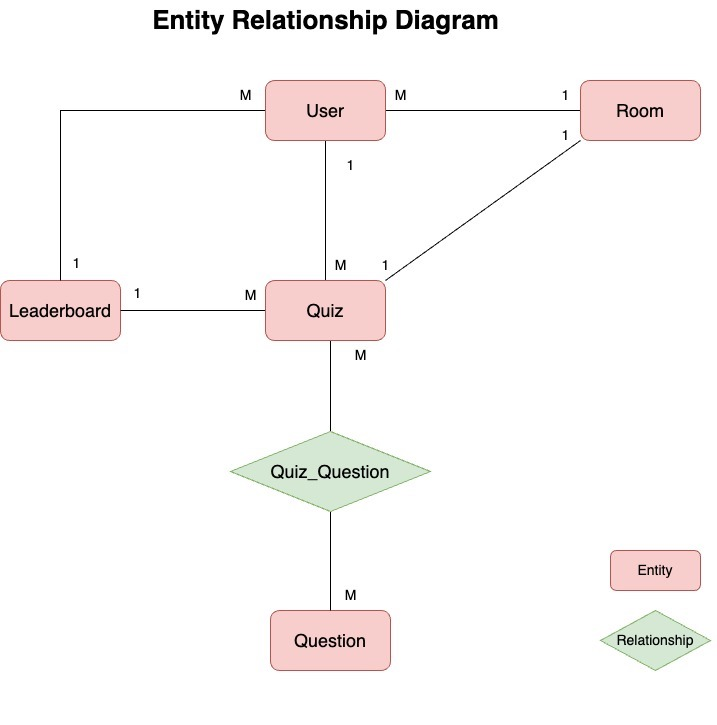
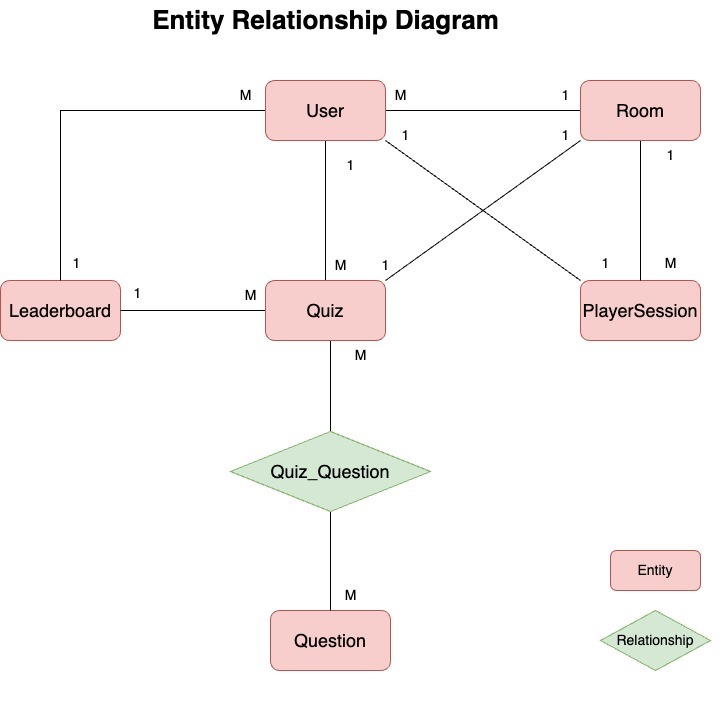
implement firebase firestore to quiz scene

diff --git a/src/components/PlayQuiz.js b/src/components/PlayQuiz.js
@@ -2,9 +2,10 @@ import React, {useEffect, useState} from 'react'
 import { useLocation, useNavigate } from 'react-router-dom';
 import Button from '@mui/material/Button';
 import QuizCard from './common/QuizCard';
-import { database } from '../firebase-config';
-import { addDoc, collection } from 'firebase/firestore';
 import moment from 'moment';
+import editData from "../firestore/editData";
+import {toast} from "react-toastify";
+import addData from "../firestore/addData";
 export default function PlayQuiz() {
     const { state } = useLocation();
     const navigate = useNavigate();
@@ -12,33 +13,97 @@ export default function PlayQuiz() {
     const [questionsArray, setQuesArray] = useState([]);
     const [score, setScore] = useState(0);
     const [playerName, setPlayerName] = useState('');
-    const databaseRef = collection(database, 'Leaderboard')
+    const [leaderboardId, setLeaderboardId] = useState('');
+    // const databaseRef = collection(database, 'Leaderboard')
 
     useEffect(() => {
-        const {quizData} = state;
+        const {quizData, username} = state;
         setQuesArray(quizData)
-        setPlayerName(localStorage.getItem('username'))
+        username ?? setPlayerName(username);
+        console.log(username);
     }, [])
 
     const nextQuestion = () => {
         if (questionCounter < questionsArray.length + 1) {
-            setQuesCounter(questionCounter + 1)
+            setQuesCounter(questionCounter + 1);
+            updateSessionData();
+        }
+    }
+    useEffect(() => { // only update leaderboard when score change
+        updateLeaderboardScore();
+        // debugger;
+    },[score])
+
+    const updateSessionData = async () => {
+        const playSessionDocID = localStorage.getItem('playSessionDocID');
+        const requestData = {
+            currentQuestion: questionCounter + 1,
+            currentScore: score
+        }
+        const {result, error} = await editData(
+            'PlaySession', playSessionDocID, requestData);
+        if (error) {
+            console.log(error);
+            toast.error(JSON.stringify(error));
+            return;
+        }
+        return result;
+    }
+
+    const updateLeaderboardScore = async () => {
+        const playSessionDocID = localStorage.getItem('playSessionDocID');
+        const sessionId = localStorage.getItem('sessionId');
+        if (questionCounter === 1) { // Just answer first question
+            const requestData = {
+                username: state.username,
+                timestamp: moment().format('LLL'),
+                score: score,
+                playSessionDocID: playSessionDocID,
+                sessionId: sessionId
+            };
+            const {result, error} = await addData('Leaderboard', requestData);
+            if (result) {
+                console.log(result);
+                setLeaderboardId(result.id);
+                return result;
+            }
+            if (error) {
+                console.log(error);
+                toast.error(JSON.stringify(error));
+            }
+        } else {// second question to last question
+            const requestData = {
+                score: score
+            }
+            const {result, error} = await editData(
+                'Leaderboard', leaderboardId, requestData);
+            if (error) {
+                console.log(error);
+                toast.error(JSON.stringify(error));
+                return;
+            }
+            return result;
         }
     }
 
     const submitQuiz = () => {
-        addDoc(databaseRef, {
-            username: playerName,
-            timestamp: moment().format('LLL'),
-            score: score
+        navigate('/leaderboard', {
+            state: {
+                finalResults: score,
+            }
         })
-            .then(() => {
-                navigate('/leaderboard', {
-                    state: {
-                        finalResults: score,
-                    }
-                })
-            })
+        // addDoc(databaseRef, {
+        //     username: playerName,
+        //     timestamp: moment().format('LLL'),
+        //     score: score
+        // })
+        //     .then(() => {
+        //         navigate('/leaderboard', {
+        //             state: {
+        //                 finalResults: score,
+        //             }
+        //         })
+        //     })
     }
     return (
         <div>
@@ -59,12 +124,12 @@ export default function PlayQuiz() {
             ) : (
                 <div className='submit-container'>
                     <h2>The Quiz is now finished..</h2>
-                    <p>You can Submit your Score..</p>
+                    <p>You can see your rank on leaderboard..</p>
                     <Button
                         onClick={submitQuiz}
                         variant="contained"
                         style={{ marginLeft: 10 }}>
-                        Submit
+                        Show leaderboard
                     </Button>
                 </div>
             )}

diff --git a/src/firestore/getData.js b/src/firestore/getData.js
@@ -1,0 +1,125 @@
+import {database} from "../firebase-config";
+import {collection, doc, getDoc, getDocs, query, orderBy, where, deleteDoc} from "firebase/firestore";
+
+export async function getDocument(collection, id) {
+    let docRef = doc(database, collection, id);
+
+    let result = null;
+    let error = null;
+
+    try {
+        result = await getDoc(docRef);
+    } catch (e) {
+        error = e;
+    }
+
+    return { result, error };
+}
+
+export async function getAllUser() {
+    let error = null;
+    let result = null;
+    let messageList = []
+    try {
+        const snapshot = await getDocs(collection(database, 'messages'));
+        messageList = snapshot.docs.map(doc => doc.data());
+        for (let i = 0; i < messageList.length; i++) {
+            delete messageList[i].text;
+            delete messageList[i].createdAt;
+            if (messageList[i].photoURL === null) {
+                messageList[i].photoURL = '/assets/avatar-placeholder.jpg';
+            }
+            if (messageList[i].displayName === null) {
+                messageList[i].displayName = 'Anonymous';
+            }
+            messageList[i].id = messageList[i].uid;
+            messageList[i].display = messageList[i].displayName;
+        }
+        result = removeDuplicate(messageList);
+    } catch (e) {
+        error = e;
+    }
+
+    return { result, error };
+}
+
+function removeDuplicate(array) {
+    const nonDuplicate = []
+    for (let i = 0; i <array.length; i++) {
+        const isExist = nonDuplicate.filter(u => u.uid === array[i].uid)[0];
+        if (!isExist) {
+            nonDuplicate.push(array[i])
+        }
+    }
+    return nonDuplicate;
+}
+
+export async function getCurrentUserNotification(currentUser) {
+    let error = null;
+    let notiList = [];
+    let received = [];
+    let sentByMe = []
+    try {
+        const notificationRef = collection(database, 'notification');
+        const snapshot = await getDocs(query(notificationRef, [where("type", "==", "mentioned"), orderBy('createdAt', 'desc')]));
+        notiList = snapshot.docs.map(doc => {return {...doc.data(), id: doc.id}});
+    }catch (e) {
+        error = e
+    }
+
+    for (let i = 0; i < notiList.length; i++) {
+        const receivers = notiList[i].receiver;
+        if (receivers && receivers.length > 0)
+        for (let j = 0; j < receivers.length; j++) {
+            if (currentUser.uid === receivers[j].uid) {
+                received.push(notiList[i]);
+            }
+        }
+
+        const sender = notiList[i].sender;
+        if (sender.id === currentUser.uid) {
+            sentByMe.push(notiList[i]);
+        }
+    }
+    return { received, sentByMe, error }
+}
+
+export async function getBlockingUserByMe(currentUser) {
+    let error = null;
+    let result = [];
+    let blockList = [];
+    try {
+        const notificationBlockRef = collection(database, 'notification-block');
+        const snapshot = await getDocs(query(notificationBlockRef));
+        blockList = snapshot.docs.map(doc => {return {...doc.data(), id: doc.id}});
+    }catch (e) {
+        error = e
+    }
+
+    for (let i = 0; i < blockList.length; i++) {
+       if (blockList[i].sender.id === currentUser.uid) {
+           result.push(blockList[i]);
+       }
+    }
+    return { result, error }
+}
+
+export async function deActiveBlockingNotify(notifyID) {
+    let error = null;
+    let result = null;
+    try {
+        const notificationBlockRef = collection(database, 'notification-block');
+        const snapshot = await getDocs(query(notificationBlockRef, where("notificationDocID", "==", notifyID)));
+        console.log(`snapshot`);
+        console.log(snapshot);
+        if (snapshot) {
+            snapshot.forEach((doc) => {
+                deleteDoc(doc.ref);
+            });
+        }
+        // result = await editData(notificationBlockRef, snapshot[0].id, {active: false});
+    }catch (e) {
+        error = e
+    }
+    return { result, error }
+}

diff --git a/src/components/Lobby.js b/src/components/Lobby.js
@@ -4,6 +4,8 @@ import axios from 'axios';
 import { useNavigate } from 'react-router-dom';
 import TextField from '@mui/material/TextField';
 import { toast } from 'react-toastify';
+import moment from "moment";
+import addData from "../firestore/addData";
 export default function Lobby() {
     const navigate = useNavigate();
     const [playerName, setPlayerName] = useState('');
@@ -11,24 +13,51 @@ export default function Lobby() {
 
     const getQuiz = () => {
         if (playerName && roomId) {
-            localStorage.setItem('username', playerName)
-            axios.get(
-                `https://opentdb.com/api.php?amount=10&difficulty=easy&category=9`)
-                .then((response) => {
-                    navigate('/playquiz',
-                        {
-                            state: {
-                                quizData: response.data.results
-                            }
-                        })
-                })
+            const sessionId = generateSessionId();
+            localStorage.setItem('username', playerName);
+            localStorage.setItem('sessionId', sessionId);
+
+            updateSessionData(sessionId).then(r => {
+               console.log(r);
+               localStorage.setItem('playSessionDocID', r.result.id);
+               // debugger;
+                axios.get(
+                    `https://opentdb.com/api.php?amount=10&difficulty=easy&category=9`)
+                    .then((response) => {
+                        navigate('/playquiz',
+                            {
+                                state: {
+                                    quizData: response.data.results,
+                                    username: playerName
+                                }
+                            })
+                    })
+            });
         }
+
         else if (!playerName) {
             toast.error(`Please Enter the Player's Name`);
         }
         else if (!roomId || typeof roomId !== "number" ) {
             toast.error(`Invalid Room ID`);
         }
+    }
+
+    const generateSessionId = () => {
+        return playerName + '/' + roomId + '/' + Date.now();
+    }
+
+    const updateSessionData = async (sessionId) => {
+        const requestData = {
+            sessionId: sessionId,
+            currentQuestion: 0,
+            currentScore: 0,
+            roomId: roomId,
+            timestamp: moment().format('LLL'),
+            status: 0,
+            username: playerName
+        }
+        return await addData('PlaySession', requestData);
     }
 
     return (

diff --git a/src/index.js b/src/index.js
@@ -7,13 +7,13 @@ import {BrowserRouter as Router} from "react-router-dom";
 import ToastProvider from "./context/ToastProvider";
 const root = ReactDOM.createRoot(document.getElementById('root'));
 root.render(
-  <React.StrictMode>
+  // <React.StrictMode>
       <Router>
           <ToastProvider>
               <App />
           </ToastProvider>
       </Router>
-  </React.StrictMode>
+  // </React.StrictMode>
 );
 
 // If you want to start measuring performance in your app, pass a function

diff --git a/src/firestore/editData.js b/src/firestore/editData.js
@@ -1,0 +1,17 @@
+import {database, app} from "../firebase-config";
+import { doc, setDoc } from "firebase/firestore";
+
+export default async function editData(collectionName, id, data) {
+    let result = null;
+    let error = null;
+
+    try {
+        result = await setDoc(doc(database, collectionName, id), data, {
+            merge: true
+        })
+    } catch (e) {
+        error = e;
+    }
+
+    return{ result, error };
+}

diff --git a/src/firestore/addData.js b/src/firestore/addData.js
@@ -1,0 +1,16 @@
+import {database} from "../firebase-config";
+import {addDoc, collection} from "firebase/firestore";
+
+export default async function addData(path, data) {
+    const collectionRef = collection(database, path);
+    let result = null;
+    let error = null;
+
+    try {
+        result = await addDoc(collectionRef, data)
+    } catch (e) {
+        error = e;
+    }
+
+    return{ result, error };
+}
